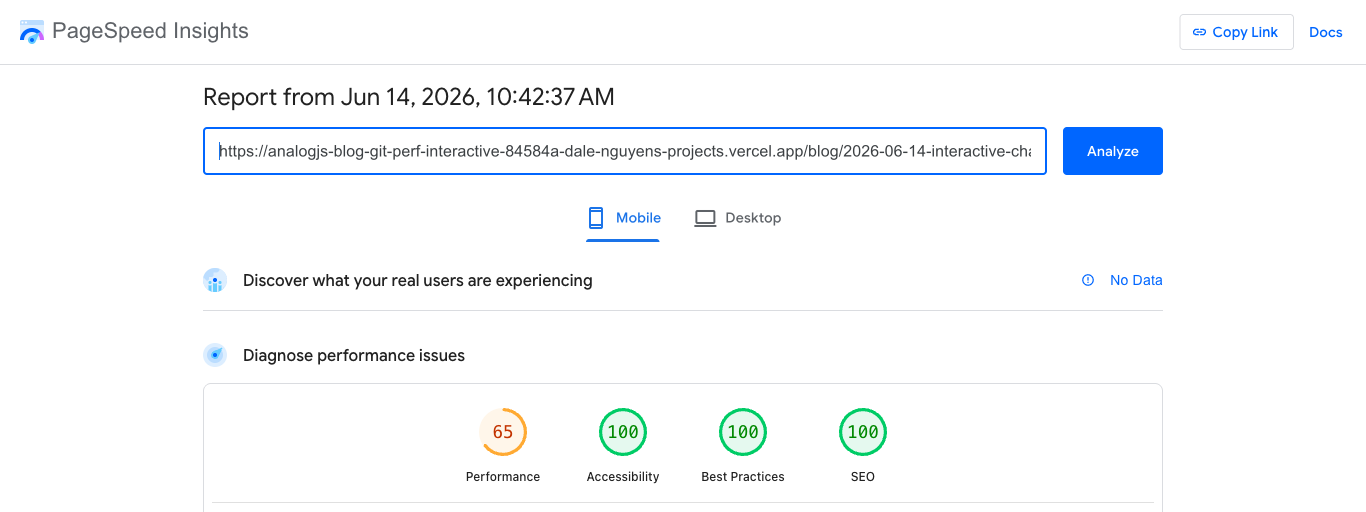
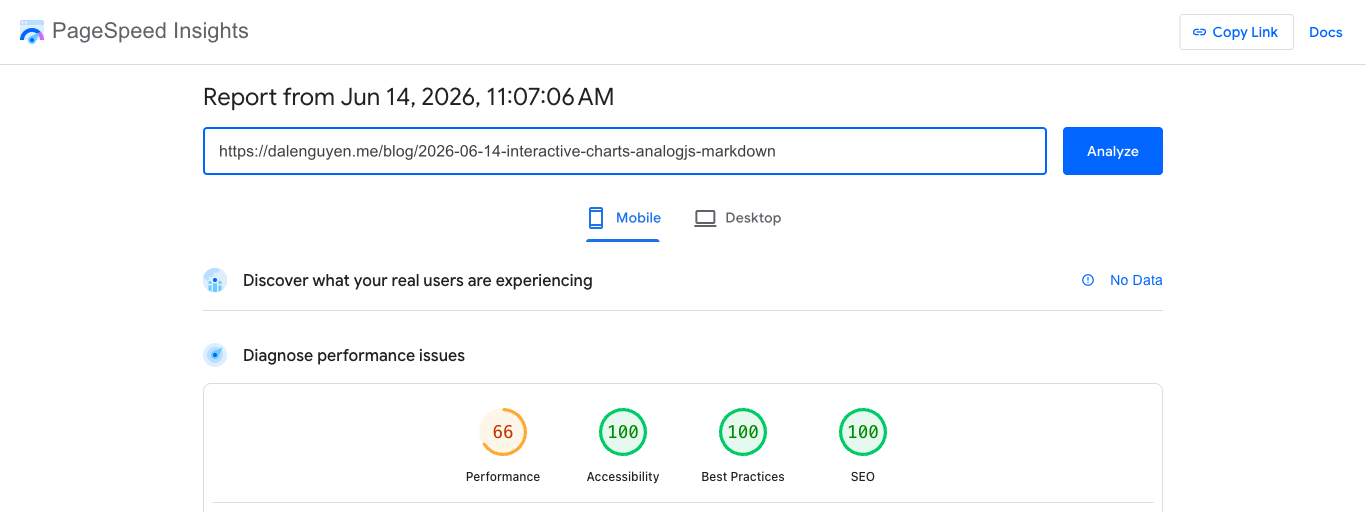
docs(blog): update PageSpeed "after" snapshots to production numbers (#166)
Re-ran PageSpeed against the deployed production site (was the preview):
- Desktop 96 -> 99 Performance (a11y/BP/SEO stay 100)
- Mobile  65 -> 66 Performance (a11y/BP/SEO stay 100)

Swap the after-gauge screenshots and update the table, captions, and copy.

Pull request: docs(blog): update PageSpeed after-snapshots to production numbers
Follow-up to #165. Re-ran PageSpeed Insights against the **deployed production site** (the earlier "after" gauges were from the Vercel preview) and refreshed the post's snapshots + numbers:

| PageSpeed | Performance | A11y | Best Practices | SEO |
|---|---|---|---|---|
| Desktop — after | 96 → **99** | 100 | 100 | 100 |
| Mobile — after | 65 → **66** | 100 | 100 | 100 |

Swaps the two after-gauge screenshots and updates the table, captions, alt text, and the mobile-ceiling note. Doc-only.

🤖 Generated with [Claude Code](https://claude.com/claude-code)

Changed region(s): [[0.1845, 0.2812, 0.7687, 0.3125], [0.369, 0.1562, 0.4612, 0.2188]]

diff --git a/apps/blog-app/src/content/2026-06-14-all-green-lighthouse-analogjs-blog.md b/apps/blog-app/src/content/2026-06-14-all-green-lighthouse-analogjs-blog.md
@@ -22,7 +22,7 @@ One important caveat: the Chrome DevTools Lighthouse tool returns Accessibility,
 
 ### PageSpeed Insights: before and after
 
-I ran [PageSpeed Insights](https://pagespeed.web.dev/) against the live "before" page and again against the deployed "after" preview. Desktop — before, then after:
+I ran [PageSpeed Insights](https://pagespeed.web.dev/) against the live "before" page and again against the deployed "after" production site. Desktop — before, then after:
 
 <figure>
   <img src="assets/images/blog/all-green-lighthouse-pagespeed-before-desktop.png" alt="PageSpeed Insights desktop report before optimization: Performance 91, Accessibility 90, Best Practices 100, SEO 92" width="100%" height="auto" />
@@ -30,8 +30,8 @@ I ran [PageSpeed Insights](https://pagespeed.web.dev/) against the live "before"
 </figure>
 
 <figure>
-  <img src="assets/images/blog/all-green-lighthouse-pagespeed-after-desktop.png" alt="PageSpeed Insights desktop report after optimization: Performance 96, Accessibility 100, Best Practices 100, SEO 100" width="100%" height="auto" />
-  <figcaption>Desktop, after: 96 Performance / 100 Accessibility / 100 Best Practices / 100 SEO.</figcaption>
+  <img src="assets/images/blog/all-green-lighthouse-pagespeed-after-desktop.png" alt="PageSpeed Insights desktop report after optimization: Performance 99, Accessibility 100, Best Practices 100, SEO 100" width="100%" height="auto" />
+  <figcaption>Desktop, after: 99 Performance / 100 Accessibility / 100 Best Practices / 100 SEO.</figcaption>
 </figure>
 
 Mobile — before, then after:
@@ -42,18 +42,18 @@ Mobile — before, then after:
 </figure>
 
 <figure>
-  <img src="assets/images/blog/all-green-lighthouse-pagespeed-after-mobile.png" alt="PageSpeed Insights mobile report after optimization: Performance 65, Accessibility 100, Best Practices 100, SEO 100" width="100%" height="auto" />
-  <figcaption>Mobile, after: 65 Performance / 100 Accessibility / 100 Best Practices / 100 SEO.</figcaption>
+  <img src="assets/images/blog/all-green-lighthouse-pagespeed-after-mobile.png" alt="PageSpeed Insights mobile report after optimization: Performance 66, Accessibility 100, Best Practices 100, SEO 100" width="100%" height="auto" />
+  <figcaption>Mobile, after: 66 Performance / 100 Accessibility / 100 Best Practices / 100 SEO.</figcaption>
 </figure>
 
 | PageSpeed (Google-hosted Lighthouse) | Performance | Accessibility | Best Practices | SEO |
 |---|---|---|---|---|
 | Desktop — before | 91 | 90 | 100 | 92 |
-| Desktop — after | **96** | **100** | 100 | **100** |
+| Desktop — after | **99** | **100** | 100 | **100** |
 | Mobile — before | 59 | 90 | 100 | 92 |
-| Mobile — after | **65** | **100** | 100 | **100** |
+| Mobile — after | **66** | **100** | 100 | **100** |
 
-Two things stand out. **Accessibility and SEO both reached 100 here too**, confirming the contrast, label, and `robots.txt` fixes hold on Google's infrastructure — not just on my localhost run. And **mobile Performance moved only 59 → 65**: deferring third-party JS helped, but the dominant remaining cost is Angular's hydration under heavy mobile CPU throttling — a framework characteristic that no amount of analytics deferral can fix. That is an honest ceiling worth knowing before you chase a green mobile Performance gauge on a hydrated SSG.
+Two things stand out. **Accessibility and SEO both reached 100 here too**, confirming the contrast, label, and `robots.txt` fixes hold on Google's infrastructure — not just on my localhost run. And **mobile Performance moved only 59 → 66**: deferring third-party JS helped, but the dominant remaining cost is Angular's hydration under heavy mobile CPU throttling — a framework characteristic that no amount of analytics deferral can fix. That is an honest ceiling worth knowing before you chase a green mobile Performance gauge on a hydrated SSG. (Measured on the deployed production site; desktop landed at 99.)
 
 One more subtlety: **the same page scores differently depending on which Lighthouse build runs it.** PageSpeed Insights (Google-hosted) reports Best Practices 100 and has no "Agentic Browsing" category. The newer Lighthouse bundled in Chrome DevTools — which I used for the per-fix breakdown below — adds Agentic Browsing and weights the third-party-cookie issue far more harshly, so it scored the *same* page Best Practices 77 and Agentic Browsing 33. I optimized against the stricter build, so the fixes satisfy both.
 